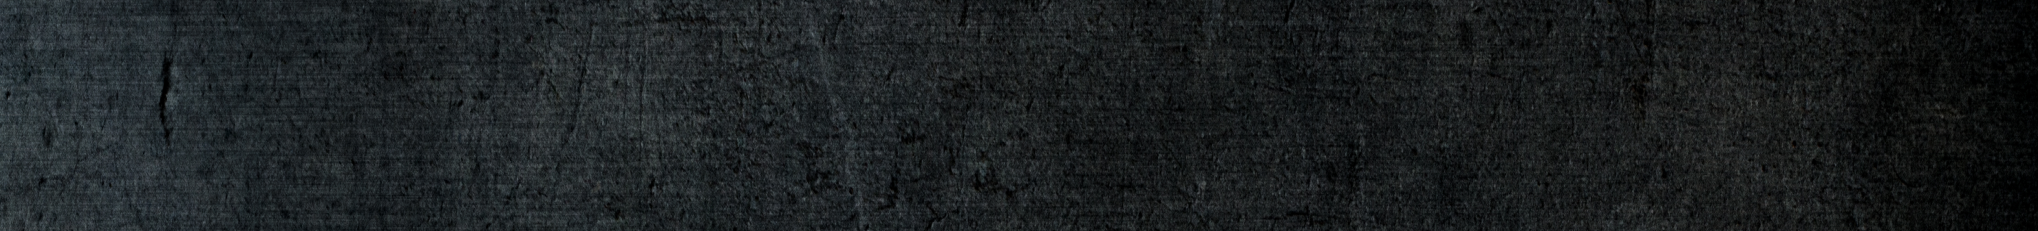
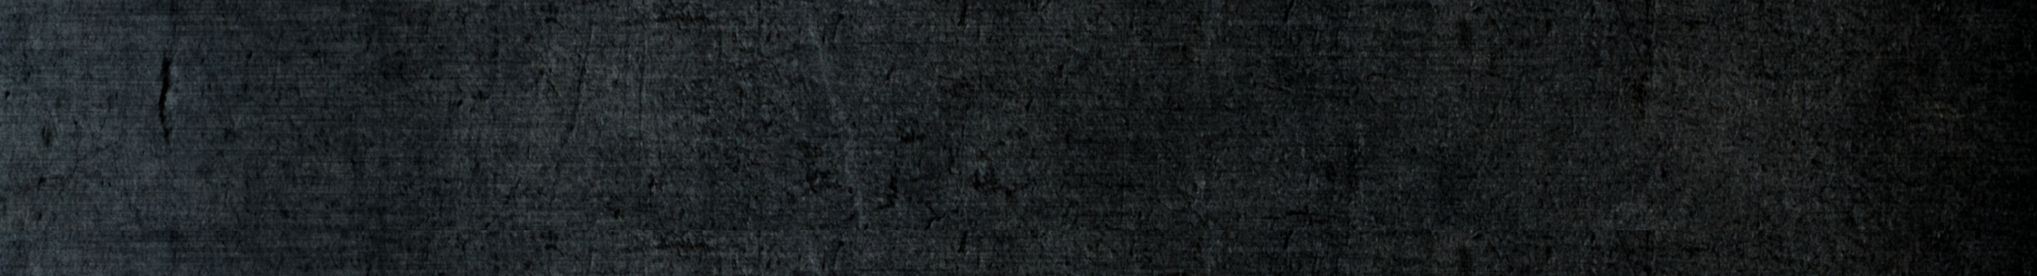
Modifcacion de footer y contacts
Modifcacion de footer y contacts

diff --git a/Respaldo-contact/contact.html b/Respaldo-contact/contact.html
@@ -5,7 +5,7 @@
     <meta charset="utf-8">
     <meta name="viewport" content="width=device-width, initial-scale=1, shrink-to-fit=no">
     <!-- Bootstrap CSS -->
-    <link rel="stylesheet" href="http://maxcdn.bootstrapcdn.com/font-awesome/4.2.0/css/font-awesome.min.css">
+    <link rel="stylesheet" href="https://cdnjs.cloudflare.com/ajax/libs/font-awesome/4.7.0/css/font-awesome.min.css">
     <link rel="stylesheet" href="https://stackpath.bootstrapcdn.com/bootstrap/4.1.3/css/bootstrap.min.css" integrity="sha384-MCw98/SFnGE8fJT3GXwEOngsV7Zt27NXFoaoApmYm81iuXoPkFOJwJ8ERdknLPMO" crossorigin="anonymous">
     <link href="css/bootstrap.min.css" rel="stylesheet" />
     <link href="css/animate.min.css" rel="stylesheet" />
@@ -13,11 +13,7 @@
     <script src="js/jquery-3.3.1.min.js"></script>
     <script src="js/bootstrap.min.js"></script>
     <script src="js/prueba.js"></script>
-    <script src="js/wow.min.js"></script>
-    <title>Horarios</title>
-    <script>
-        new WOW().init();
-    </script>
+    <title>Contacto</title>
 </head>
 
 <body>
@@ -42,10 +38,10 @@
                         </li>
 
                         <li class="nav-item mr-2">
-                            <a id="tipografia-cocon" class="nav-link letras" href="horarios.html">Horarios</a>
+                            <a id="tipografia-cocon" class="nav-link letras page" href="horarios.html">Horarios</a>
                         </li>
                         <li class="nav-item mr-2">
-                            <a id="tipografia-cocon" class="nav-link letras page" href="contact.html">Contacto</a>
+                            <a id="tipografia-cocon" class="nav-link letras " href="contact.html">Contacto</a>
                         </li>
                     </ul>
                 </div>
@@ -55,6 +51,7 @@
     </header>
 
     <div id="contenido-pagina">
+
         <div class="container-fluid">
             <div class="row">
                 <div class="col-12 text-center pr-0 pl-0">
@@ -206,39 +203,45 @@
             </div>
         </div>
 
-        <!-- Footer -->
-        <footer class="footer-distributed">
-            <div class="footer-center">
-                <div>
-                    <i class="fa fa-map-marker"></i>
-                    <p id="tipografia-cocon"><span>Cale 08</span> Puntarenas, Costa Rica</p>
-                </div>
 
-                <div>
-                    <i class="fa fa-phone"></i>
-                    <p class="tipo-tamanio" id="tipografia-cocon">+2661-3456</p>
-                </div>
-
-                <div>
-                    <i class="fa fa-envelope"></i>
-                    <p class="tipo-tamanio" id="tipografia-cocon"><a href="mailto:ejemplo@gmail.com">ejemplo@gmail.com</a></p>
-                </div>
-
-            </div>
-
-            <div class="footer-left">
-                <div class="vl vlHorizonral"></div>
-                <img src="img/logo.png" class="img-fluid logoGestion" alt=""><br>
-                <h4 class="text-white" id="tipografia-cocon">Gestion ambiental</h4>
-            </div>
-
-            <div class="footer-right">
-                <div class="vl vlHorizonral"></div>
-                <img src="img/face-02.png" class="img-fluid logoFacebook" alt=""><br>
-
-            </div>
-
-        </footer>
     </div>
+
+
+
+    <!-- Footer -->
+    <footer class="footer-distributed">
+        <div class="footer-center">
+            <div>
+                <i class="fa fa-map-marker"></i>
+                <p id="tipografia-cocon"><span>Cale 08</span> Puntarenas, Costa Rica</p>
+            </div>
+
+            <div>
+                <i class="fa fa-phone"></i>
+                <p class="tipo-tamanio" id="tipografia-cocon">+2661-3456</p>
+            </div>
+
+            <div>
+                <i class="fa fa-envelope"></i>
+                <p class="tipo-tamanio" id="tipografia-cocon"><a href="mailto:ejemplo@gmail.com">ejemplo@gmail.com</a></p>
+            </div>
+
+        </div>
+
+        <div class="footer-left">
+            <div class="vl vlHorizonral"></div>
+            <img src="img/logo.png" class="img-fluid logoGestion" alt=""><br>
+            <h4 class="text-white" id="tipografia-cocon">Gestion ambiental</h4>
+        </div>
+
+        <div class="footer-right">
+            <div class="vl vlHorizonral"></div>
+            <img src="img/face-02.png" class="img-fluid logoFacebook" alt=""><br>
+
+        </div>
+
+    </footer>
+    </div>
+
 
 </body>

diff --git a/css/style.css b/css/style.css
@@ -116,14 +116,13 @@ p {
     border-style: solid;
     border-width: thin;
     margin: 0% 4% 0% 5%;
+    height: 800px;
 }
 
 .cajaTexto2-contactenos-formulario {
     background-color: rgba(255, 255, 255, 0.2);
     margin: 0% 5% 0% 5%;
-    padding-left: 5%;
-    padding-right: 5%;
-    padding-bottom: 17%;
+    height: 800px;
 }
 
 .rayas-form:before,
@@ -137,15 +136,15 @@ p {
 .rayas-form:before {
     border-top: 3px solid white;
     border-left: 3px solid white;
-    top: 5%;
-    left: 7%;
+    /* top: 5%;
+    left: 7%;*/
 }
 
 .rayas-form:after {
     border-right: 3px solid white;
     border-bottom: 3px solid white;
     bottom: 5%;
-    right: 7%;
+    right: 6.5%;
 }
 
 #tipografia-cocon {
@@ -175,12 +174,8 @@ p {
     margin: 10% 0% 4% 8%;
 }
 
-.margenes-cajas-formulario {
-    margin-top: 10%;
-}
-
-.margen-boton {
-    margin-bottom: 2%;
+.margenes-cajas-form {
+    margin: 0% 8% 0% 8%;
 }
 
 .fondo-info {
@@ -342,11 +337,6 @@ a:hover {
     margin-top: -95px;
 }
 
-.navbar-toggler {
-    color: rgba(255, 255, 255, .7);
-    border-color: rgba(255, 255, 255, .7);
-}
-
 .margenesTexto {
     margin-top: 11%;
     margin-bottom: 5%;
@@ -374,10 +364,7 @@ button {
 /*****************Footer************************/
 
 .footer-distributed {
-    /* background-image: url(../img/background-footer.png);
-    background-size: cover;
-    background-repeat: no-repeat;*/
-    background: #33383b;
+    background-image: url(../img/background-footer.png);
     width: 100%;
     text-align: left;
     padding: 55px 50px;
@@ -569,6 +556,12 @@ button {
 }
 
 @media (max-width: 990px) {
+    .footer-distributed .footer-center p {
+        display: block;
+    }
+    .letras:hover::after {
+        display: none;
+    }
     .margen-contactenos {
         margin-top: 8%;
     }
@@ -603,9 +596,13 @@ button {
         width: 25%;
     }
     .vl {
-        display: none;
+        border-bottom: 5px solid green;
+        position: relative;
+        display: block;
+        width: 350px;
+        margin: auto;
+        height: 0;
     }
-    .header-horarios {}
 }
 
 @media (max-width: 890px) {
@@ -657,6 +654,15 @@ button {
     .rayas-form:after {
         right: 7.2%;
     }
+    .vl {
+        width: 280px;
+    }
+}
+
+@media (max-width: 393px) {
+    .cajaTexto1-contactenos {
+        height: 1000px;
+    }
 }
 
 @media (max-width: 360px) {
@@ -668,5 +674,8 @@ button {
     }
     .rayas-form:after {
         right: 7.9%;
+    }
+    .vl {
+        width: 200px;
     }
 }
